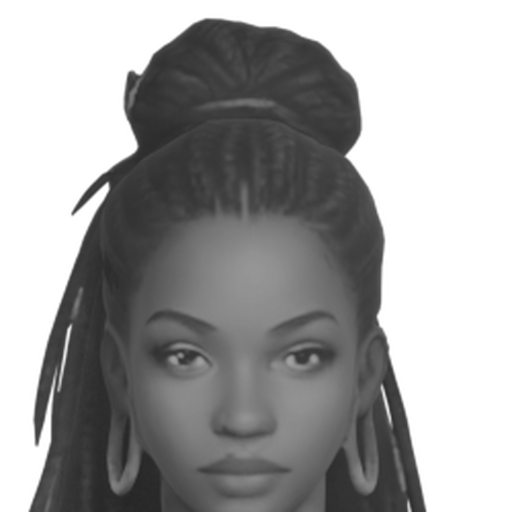
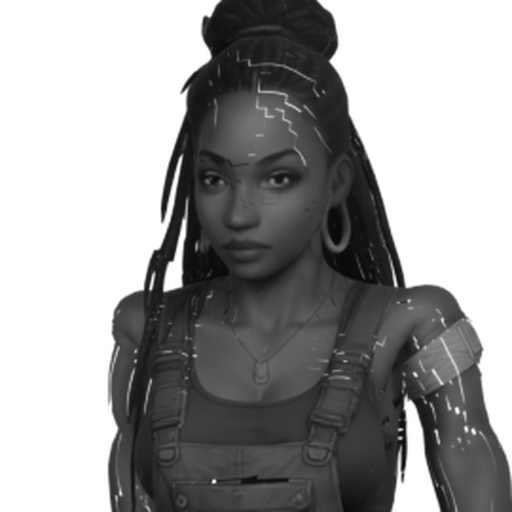
brand: Maya and Riley portraits re-cropped to Darius' framing (head about two thirds, shoulders visible)

diff --git a/tools/portrait_032.py b/tools/portrait_032.py
@@ -1,0 +1,25 @@
+from PIL import Image, ImageEnhance
+import os
+
+ROOT = r"C:\Users\user\Documents\kimi\tasks\2026-11-06\12-50-12-52283f1e\df-backup"
+ACT = os.path.join(ROOT, "assets", "models", "actors")
+UI = os.path.join(ROOT, "assets", "ui")
+
+# Darius is the reference: his head fills about two thirds of the frame, with the shoulders just
+# visible. 0.235 was too tight (head filled everything), 0.46 too loose. Split the difference.
+JOBS = (
+    ("maya_t_0.png", "maya_hd_portrait.png", "maya_hud_gray.png", 0.32, 0.04),
+    ("riley_t_0.png", "riley_hd_portrait.png", "riley_hud_gray.png", 0.32, 0.08),
+)
+
+for src, dst, gray, frac, drop in JOBS:
+    im = Image.open(os.path.join(ACT, src)).convert("RGBA")
+    x0, y0, x1, y1 = im.split()[3].getbbox()
+    h = y1 - y0
+    side = int(h * frac)
+    cx = (x0 + x1) // 2
+    top = max(0, y0 + int(side * drop))
+    crop = im.crop((cx - side // 2, top, cx + side // 2, top + side)).resize((512, 512), Image.LANCZOS)
+    crop.save(os.path.join(UI, dst))
+    ImageEnhance.Brightness(crop.convert("LA").convert("RGBA")).enhance(0.72).save(os.path.join(UI, gray))
+    print(dst, "side", side, "top", top)

diff --git a/tools/riley_crop2.py b/tools/riley_crop2.py
@@ -1,0 +1,17 @@
+from PIL import Image, ImageEnhance
+import os
+
+ROOT = r"C:\Users\user\Documents\kimi\tasks\2026-11-06\12-50-12-52283f1e\df-backup"
+ACT = os.path.join(ROOT, "assets", "models", "actors")
+UI = os.path.join(ROOT, "assets", "ui")
+
+im = Image.open(os.path.join(ACT, "riley_t_0.png")).convert("RGBA")
+x0, y0, x1, y1 = im.split()[3].getbbox()
+h = y1 - y0
+side = int(h * 0.40)
+cx = (x0 + x1) // 2
+top = max(0, y0 + int(side * 0.03))
+crop = im.crop((cx - side // 2, top, cx + side // 2, top + side)).resize((512, 512), Image.LANCZOS)
+crop.save(os.path.join(UI, "riley_hd_portrait.png"))
+ImageEnhance.Brightness(crop.convert("LA").convert("RGBA")).enhance(0.72).save(os.path.join(UI, "riley_hud_gray.png"))
+print("riley cropped at 0.40")
